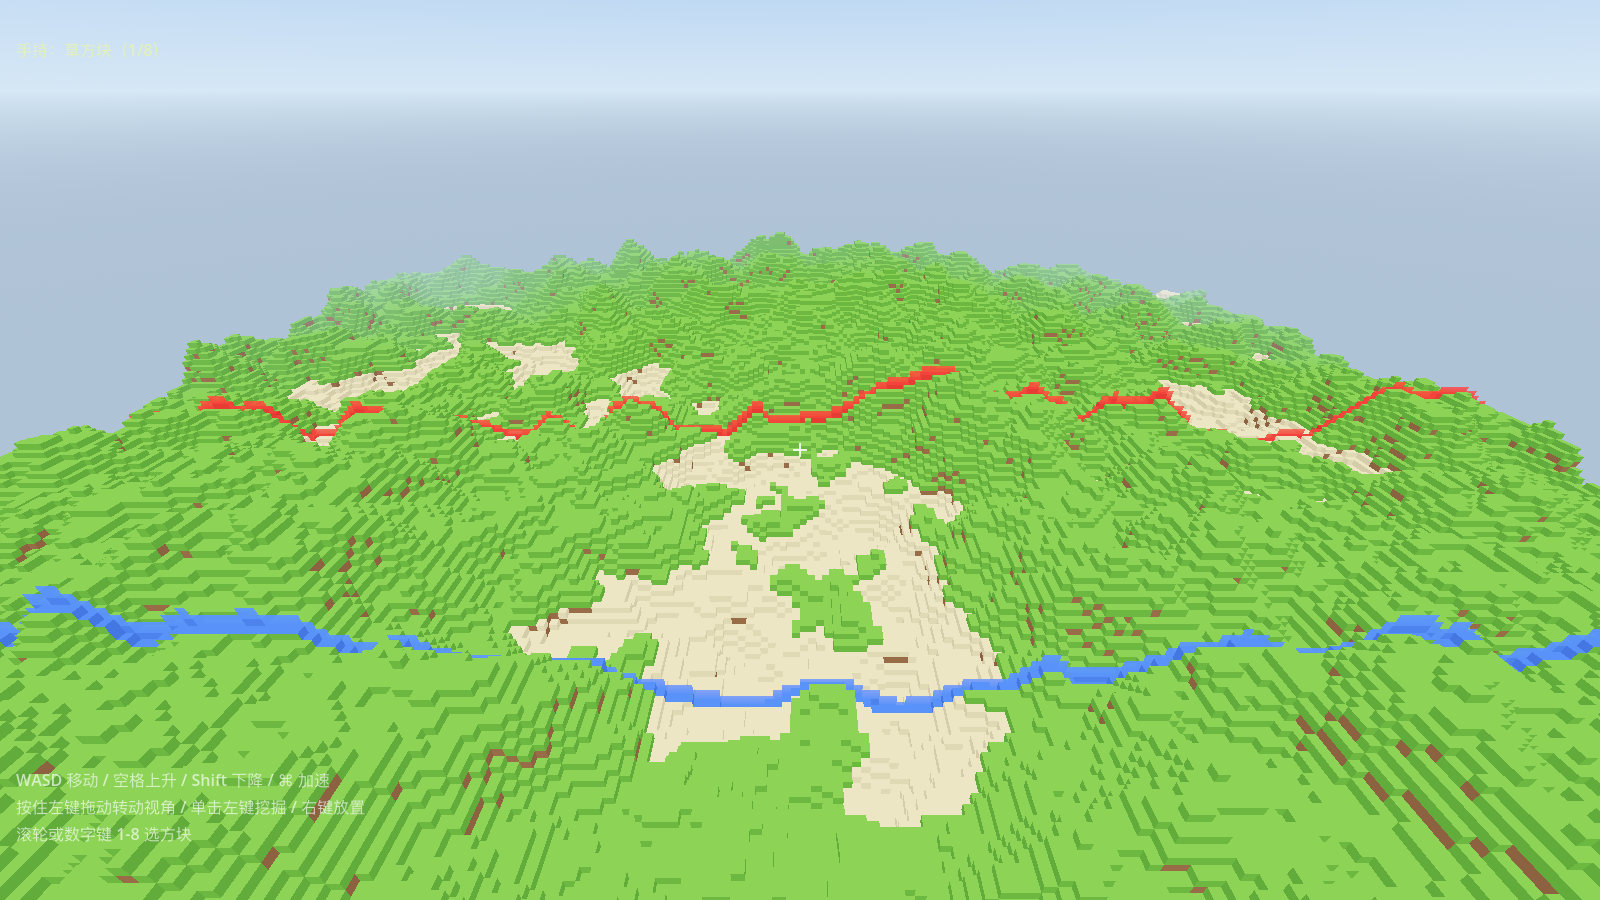
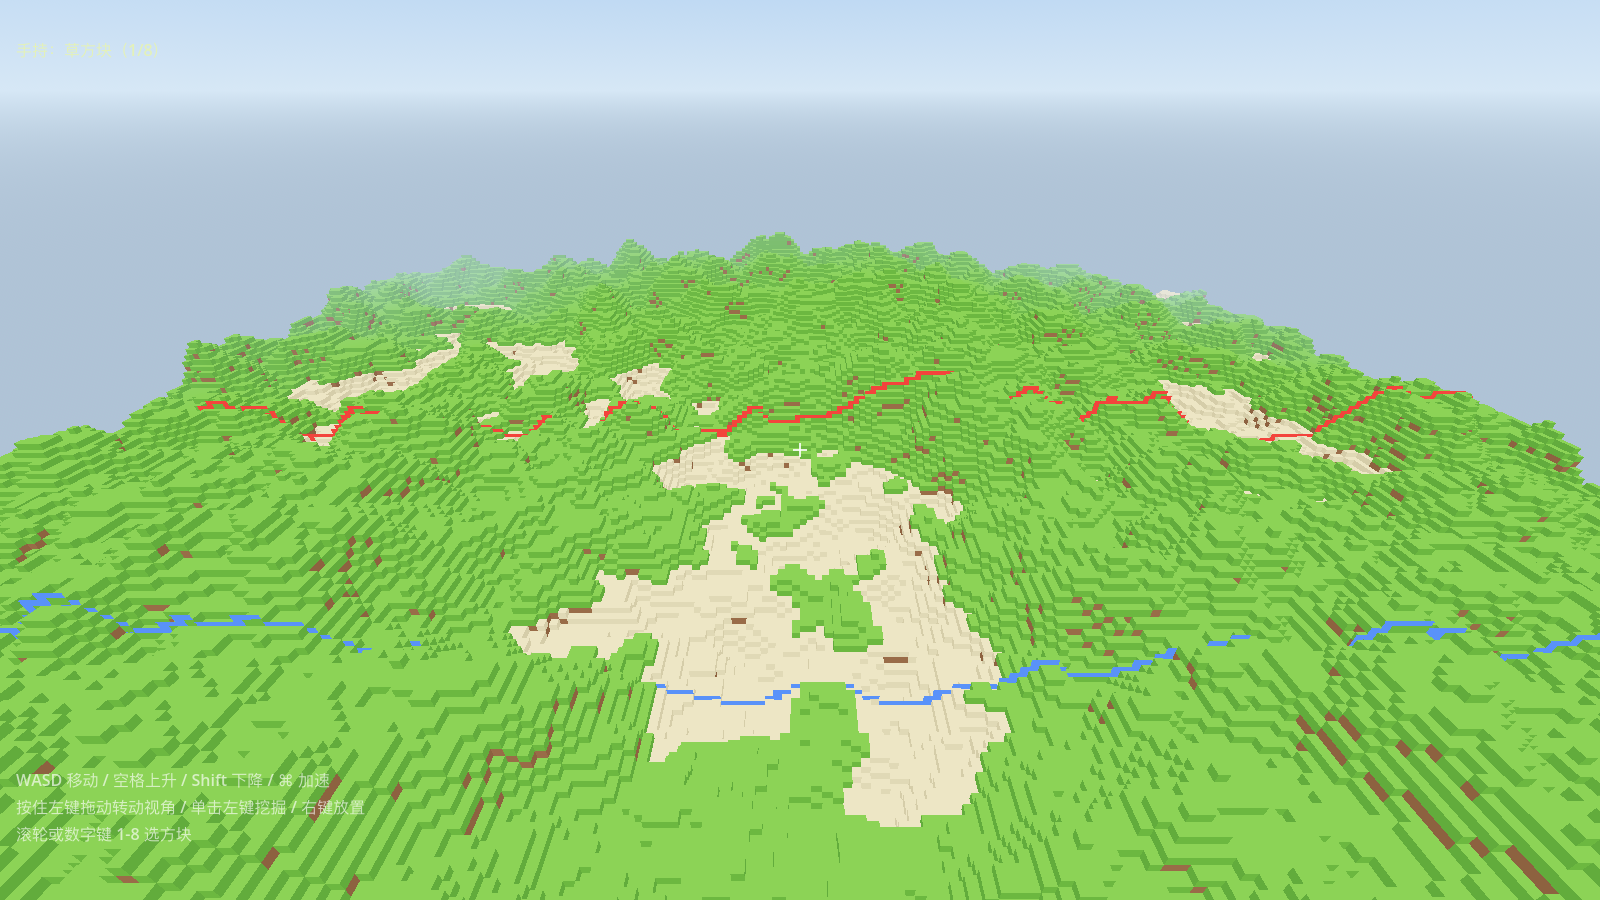
分界改为一条贴合地形的细线，方块变动后按需重铺（不占性能）

diff --git a/README.md b/README.md
@@ -4,7 +4,7 @@
 
 ## 现在能玩到的东西
 
-- 256×256、高度 64 的有限世界：左右两方各 100 宽，中间 56 宽的中立区（只是叫灰区，地形和材质跟两侧完全一样，但不能建造/破坏），两侧边界用贴合地形的蓝/红发光色带标出
+- 256×256、高度 64 的有限世界：左右两方各 100 宽，中间 56 宽的中立区（只是叫灰区，地形和材质跟两侧完全一样，但不能建造/破坏），两侧边界用一条贴合地形的蓝/红细线标出（挖方块 / 放方块时那条线会自动重铺）
 - 程序生成地形、沙滩、矿脉
 - 自由飞行视角，左键挖掘、右键放置、数字键选方块
 - 内置沙箱字节码 VM：玩家写的类 Python 代码可以在游戏里安全执行，不依赖外部解释器
